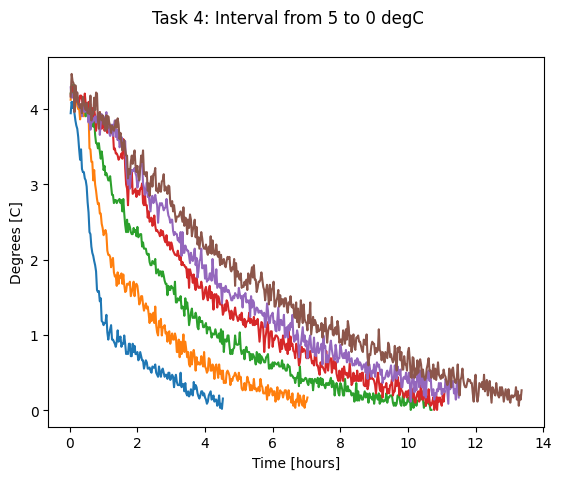
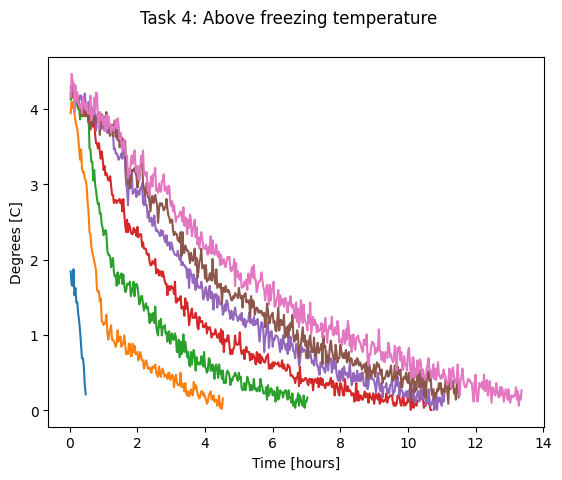
task 5 ok ish

Changed region(s): [[0.121, 0.1562, 0.9377, 0.875], [0.242, 0.0, 0.7865, 0.0625]]

diff --git a/plot_task5.py b/plot_task5.py
@@ -1,0 +1,56 @@
+from process_data import *
+
+# Find the breakpoints
+break_temperatures = [0, -11, -8, -10]
+
+breakpoints = [[-1]*len(stringTemperatures) for i in break_temperatures]
+
+for i, _ in enumerate(stringTemperatures):
+    for j, break_temperature in enumerate(break_temperatures):
+        for k, _ in enumerate(ids):
+            if stringTemperatures[i][k] < break_temperature:
+                breakpoints[j][i] = k
+                break
+        if breakpoints[j][i] == -1:
+            breakpoints[j][i] = k
+
+print(breakpoints)
+
+# Plot 1
+output_plot_file = 'plots/task5_plot1.png'
+plot_title = "Task 5: 0 to -11"
+
+fig = plt.figure()
+
+p0, = plt.plot(hours[breakpoints[0][0]:breakpoints[1][0]], stringTemperatures[0][breakpoints[0][0]:breakpoints[1][0]])
+p1, = plt.plot(hours[breakpoints[0][1]:breakpoints[1][1]], stringTemperatures[1][breakpoints[0][1]:breakpoints[1][1]])
+p2, = plt.plot(hours[breakpoints[0][2]:breakpoints[1][2]], stringTemperatures[2][breakpoints[0][2]:breakpoints[1][2]])
+p3, = plt.plot(hours[breakpoints[0][3]:breakpoints[1][3]], stringTemperatures[3][breakpoints[0][3]:breakpoints[1][3]])
+p4, = plt.plot(hours[breakpoints[0][4]:breakpoints[1][4]], stringTemperatures[4][breakpoints[0][4]:breakpoints[1][4]])
+
+fig.suptitle(plot_title)
+
+plt.ylabel('Degrees [C]')
+plt.xlabel('Time [hours]')
+
+plt.savefig(output_plot_file, bbox_inches='tight')
+
+
+# Plot 2
+output_plot_file = 'plots/task5_plot2.png'
+plot_title = "Task 5: Around mean value"
+
+fig = plt.figure()
+
+p0, = plt.plot(hours[breakpoints[2][0]:breakpoints[3][0]], stringTemperatures[0][breakpoints[2][0]:breakpoints[3][0]])
+p1, = plt.plot(hours[breakpoints[2][1]:breakpoints[3][1]], stringTemperatures[1][breakpoints[2][1]:breakpoints[3][1]])
+p2, = plt.plot(hours[breakpoints[2][2]:breakpoints[3][2]], stringTemperatures[2][breakpoints[2][2]:breakpoints[3][2]])
+p3, = plt.plot(hours[breakpoints[2][3]:breakpoints[3][3]], stringTemperatures[3][breakpoints[2][3]:breakpoints[3][3]])
+p4, = plt.plot(hours[breakpoints[2][4]:breakpoints[3][4]], stringTemperatures[4][breakpoints[2][4]:breakpoints[3][4]])
+
+fig.suptitle(plot_title)
+
+plt.ylabel('Degrees [C]')
+plt.xlabel('Time [hours]')
+
+plt.savefig(output_plot_file, bbox_inches='tight')

diff --git a/plot_task4.py b/plot_task4.py
@@ -1,6 +1,6 @@
 from process_data import *
 
-# Find the breakpoints for interval 5 to 0 degC
+# Find the breakpoints
 break_temperatures = [0, 1, -1]
 
 breakpoints = [[-1]*len(stringTemperatures) for i in break_temperatures]
